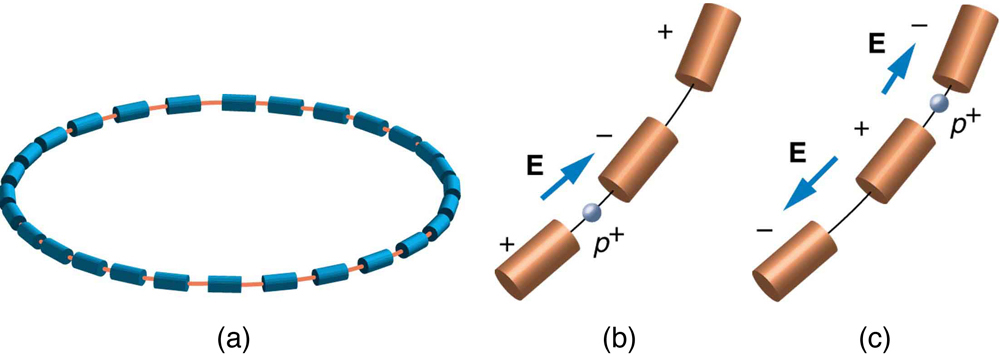
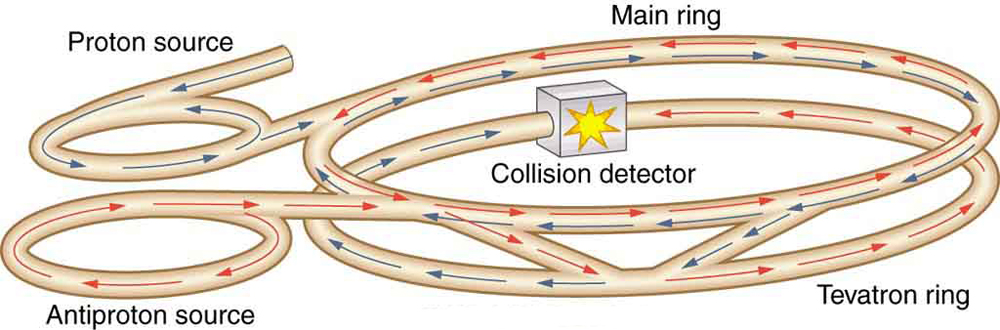
rename figures

diff --git a/contents/ch33AcceleratorsCreateMatterFromEnergy.md b/contents/ch33AcceleratorsCreateMatterFromEnergy.md
@@ -97,10 +97,10 @@ innovation is to create the antimatter counterpart of the beam particle, which
 thus has the opposite charge and circulates in the opposite direction in the
 same beam pipe. For a schematic representation, see [[Figure 4]](#Figure4).
 
-![The first image shows a circular ring made up of about thirty blue tubes whose diameters are much less than the diameter of the ring. The tubes are arranged end-to-end, so that a line joining their axes forms the ring. The second image shows a close-up view of three consecutive tubes, which we shall call tubes one, two, and three. Tube one is labeled plus, tube two is labeled minus, and tube three is labeled plus. An arrow labeled E points from tube one to tube two, and between these two tubes is a sphere labeled p plus. The third image is the same as the second, except that the tubes one, two, and three are labeled minus, plus, minus, respectively. In addition, the arrow labeled E between tubes one and two has reversed direction, and a second arrow labeled E now appears pointing from tube two to tube three. Between tubes two and three appears the sphere labeled p plus.](../resources/Figure_33_03_04.jpg "(a) A synchrotron has a ring of magnets and accelerating tubes. The frequency of the accelerating voltages is increased to cause the beam particles to travel the same distance in shorter time. The magnetic field should also be increased to keep each beam burst traveling in a fixed-radius path. Limits on magnetic field strength require these machines to be very large in order to accelerate particles to very high energies. (b) A positive particle is shown in the gap between accelerating tubes. (c) While the particle passes through the tube, the potentials are reversed so that there is another acceleration at the next gap. The frequency of the reversals needs to be varied as the particle is accelerated to achieve successive accelerations in each gap.")
+![The first image shows a circular ring made up of about thirty blue tubes whose diameters are much less than the diameter of the ring. The tubes are arranged end-to-end, so that a line joining their axes forms the ring. The second image shows a close-up view of three consecutive tubes, which we shall call tubes one, two, and three. Tube one is labeled plus, tube two is labeled minus, and tube three is labeled plus. An arrow labeled E points from tube one to tube two, and between these two tubes is a sphere labeled p plus. The third image is the same as the second, except that the tubes one, two, and three are labeled minus, plus, minus, respectively. In addition, the arrow labeled E between tubes one and two has reversed direction, and a second arrow labeled E now appears pointing from tube two to tube three. Between tubes two and three appears the sphere labeled p plus.](../resources/Figure_33_03_03.jpg "(a) A synchrotron has a ring of magnets and accelerating tubes. The frequency of the accelerating voltages is increased to cause the beam particles to travel the same distance in shorter time. The magnetic field should also be increased to keep each beam burst traveling in a fixed-radius path. Limits on magnetic field strength require these machines to be very large in order to accelerate particles to very high energies. (b) A positive particle is shown in the gap between accelerating tubes. (c) While the particle passes through the tube, the potentials are reversed so that there is another acceleration at the next gap. The frequency of the reversals needs to be varied as the particle is accelerated to achieve successive accelerations in each gap.")
 {: #Figure3}
 
-![On the left side of the image is a pair of equal-diameter, horizontal rings, with one labeled proton source and the other labeled anti proton source. The rings look like they are made of a hose; that is, their cross section is circular and they appear hollow. In the proton-source ring blue arrows appear indicating counterclockwise motion inside the hose. In the anti-proton-source ring, red arrows appear indicating clockwise motion inside the hose. A section of hose tangentially leaves each ring to tangentially join another larger ring to the right, which is labeled main ring. Both blue arrows and red arrows appear in the main ring, indicating simultaneous clockwise and counterclockwise motion. From the main ring two tangential hose sections exit to join a similar-sized ring situated beneath the main ring and that is labeled tevatron ring. In the tevatron ring, the blue arrows go half-way around clockwise and the red arrows go half-way around counterclockwise. They meet in a cube labeled collision detector and that has a yellow starburst icon on it.](../resources/Figure_33_03_05.jpg "This schematic shows the two rings of Fermilab&#x2019;s accelerator and the scheme for colliding protons and antiprotons (not to scale).       ")
+![On the left side of the image is a pair of equal-diameter, horizontal rings, with one labeled proton source and the other labeled anti proton source. The rings look like they are made of a hose; that is, their cross section is circular and they appear hollow. In the proton-source ring blue arrows appear indicating counterclockwise motion inside the hose. In the anti-proton-source ring, red arrows appear indicating clockwise motion inside the hose. A section of hose tangentially leaves each ring to tangentially join another larger ring to the right, which is labeled main ring. Both blue arrows and red arrows appear in the main ring, indicating simultaneous clockwise and counterclockwise motion. From the main ring two tangential hose sections exit to join a similar-sized ring situated beneath the main ring and that is labeled tevatron ring. In the tevatron ring, the blue arrows go half-way around clockwise and the red arrows go half-way around counterclockwise. They meet in a cube labeled collision detector and that has a yellow starburst icon on it.](../resources/Figure_33_03_04.jpg "This schematic shows the two rings of Fermilab&#x2019;s accelerator and the scheme for colliding protons and antiprotons (not to scale).       ")
 {: #Figure4}
 
 Detectors capable of finding the new particles in the spray of material that
@@ -128,7 +128,7 @@ Large Electron-Positron Collider (LEP), which accelerated particles to 100 GeV
 and created a collision energy of 200 GeV. It was 8.5 km in diameter, while the
 SLAC machine was 3.2 km long.
 
-![The schematic shows a linear accelerator about three kilometers long with magnets along its path. Electrons and positrons coming from different sources are accelerated down the linear accelerator, then are deviated by magnets to the right and left, respectively, to follow paths that circle around to meet head-on at a large device labeled mark two particle detector.](../resources/Figure_33_03_06.jpg "The Stanford Linear Accelerator was 3.2 km long and had the capability of colliding electron and positron beams. SLAC was also used to probe nucleons by scattering extremely short wavelength electrons from them. This produced the first convincing evidence of a quark structure inside nucleons in an experiment analogous to those performed by Rutherford long ago.")
+![The schematic shows a linear accelerator about three kilometers long with magnets along its path. Electrons and positrons coming from different sources are accelerated down the linear accelerator, then are deviated by magnets to the right and left, respectively, to follow paths that circle around to meet head-on at a large device labeled mark two particle detector.](../resources/Figure_33_03_05.jpg "The Stanford Linear Accelerator was 3.2 km long and had the capability of colliding electron and positron beams. SLAC was also used to probe nucleons by scattering extremely short wavelength electrons from them. This produced the first convincing evidence of a quark structure inside nucleons in an experiment analogous to those performed by Rutherford long ago.")
 {: #Figure5}
 
 <div class="example" markdown="1">
